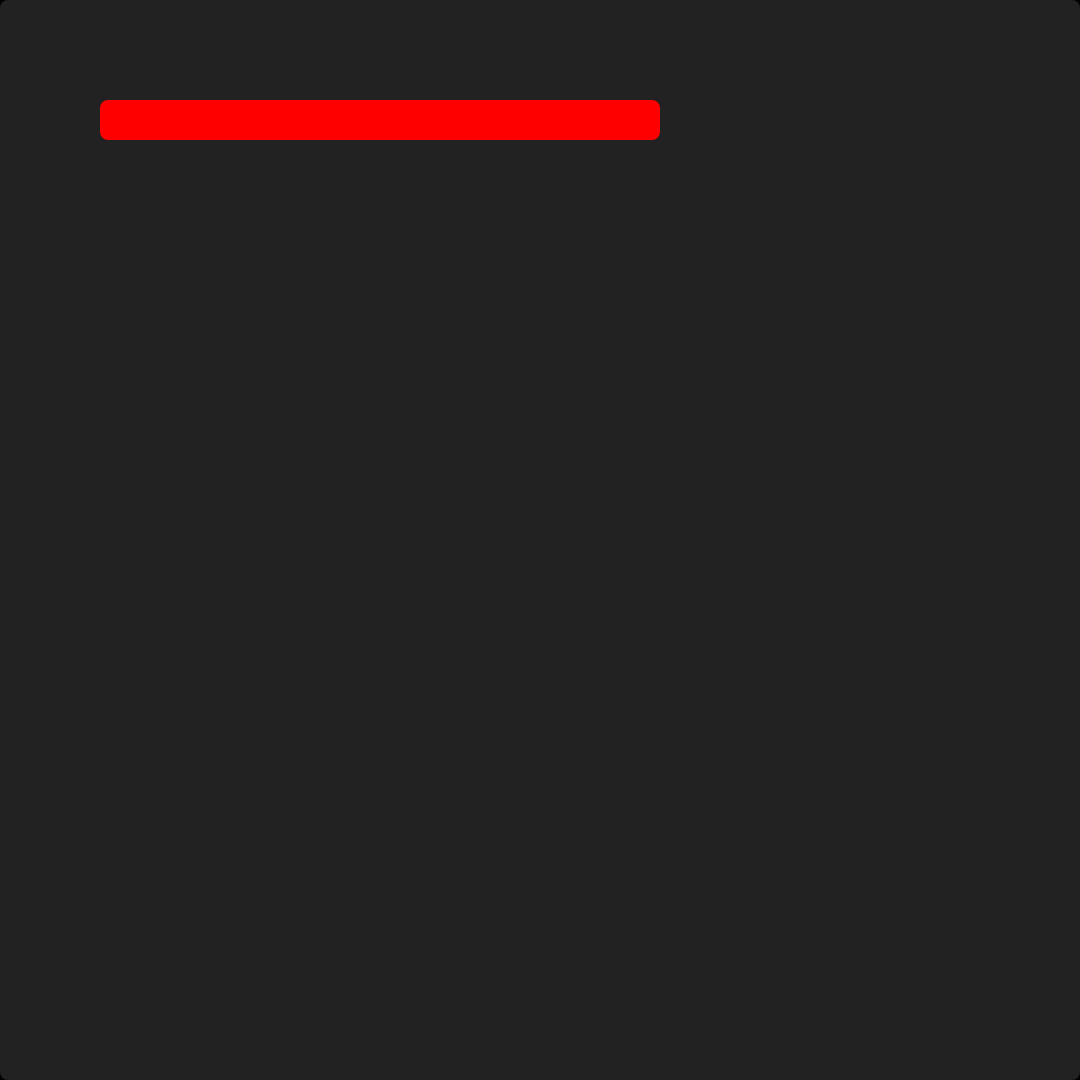
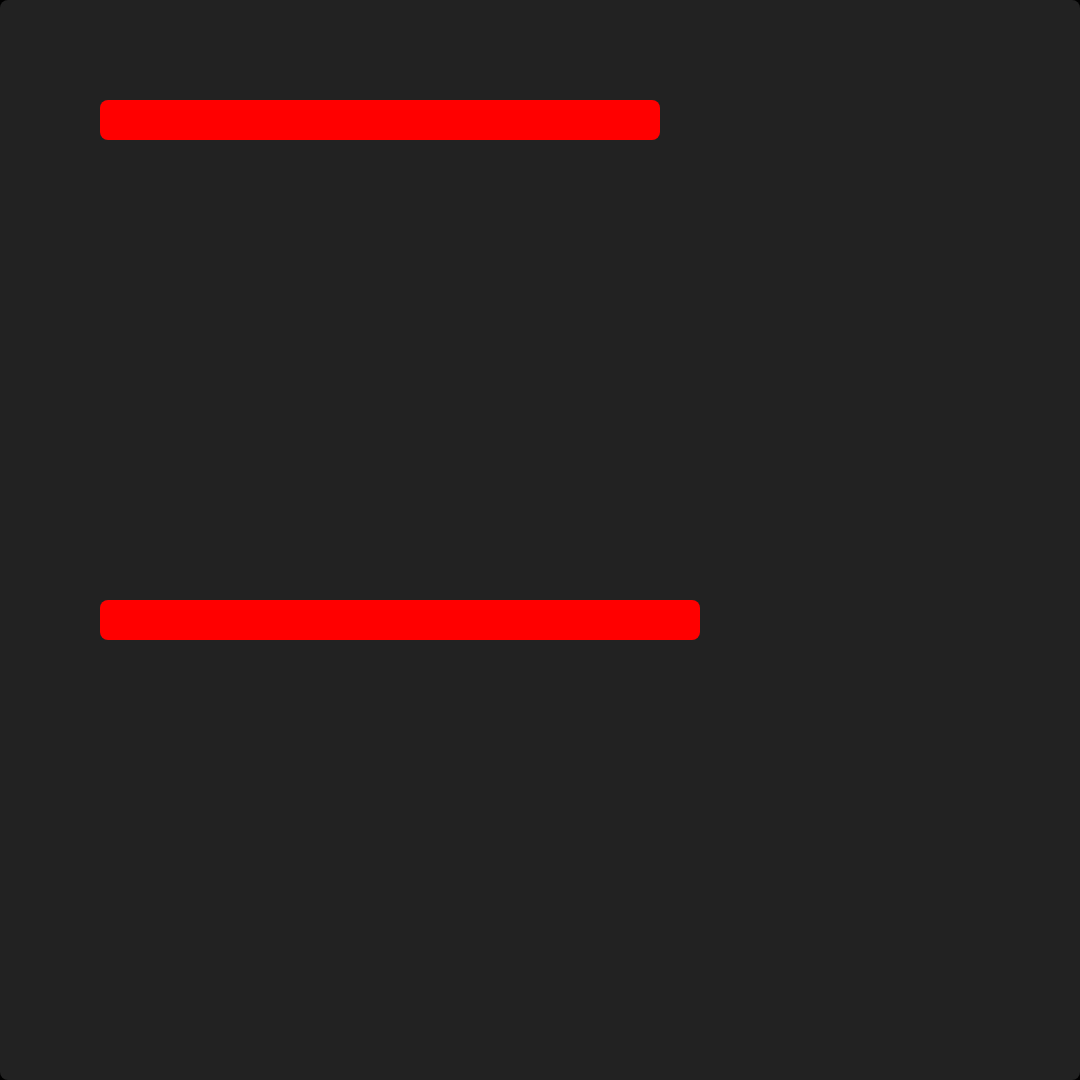
fix(video): resize immediateRender 按位置判定——链式分段 from 值泄漏（v0.32.1）
v0.32.0 的 resize builder 保留 GSAP 默认 immediateRender:true，fromTo 在
build 时写 from 尺寸——链式分段（进度条 15 段链）下最后一段的 from 值获胜，
第 0 帧泄漏出近满宽条。发现者：第一个真实链式消费者（versus IR 重写）。

修法（两语义各有明主）：
- at==0 → true：playhead 恰停在 tween 起点不"进入"tween，F0 必须在 build
  期应用 from 态（否则静态宽全幅泄漏，实测钉死）
- at>0  → false：链式分段不得在 build 期预写后续段 from 值

合成测试扩展：F0 空断言（防泄漏回归）+ 3 段链 200→400→600 阶梯断言。
存量回归 TestFadeHighlight/TestElementTimeWindow 绿。

Changed region(s): [[0.0917, 0.55, 0.6722, 0.6111]]

diff --git a/example/internal/video/app/timeline-builder.js b/example/internal/video/app/timeline-builder.js
@@ -383,18 +383,26 @@
     // resize (v1 increment, versus pilot): width/height tween anchored
     // TOP-LEFT (progress-bar semantics — width grows rightward, height grows
     // downward; From/To Points carry (w,h) px pairs, unlike move's absolute
-    // position Points). immediateRender stays at the DEFAULT (true, same as
-    // move): fromTo writes the from-size at build time, which is harmless
-    // for an element inside its hidden pre-window phase (invisible anyway)
-    // and CORRECT for an always-mounted element — t=0 must sit at the from
-    // state (a progress bar starts empty). fadeIn/fadeOut disable
-    // immediateRender for opacity-specific reasons (build-time autoAlpha
-    // leaks, see above); size has no such leak.
+    // position Points).
+    //
+    // immediateRender: (at <= 0) — BOTH cases have a defined owner:
+    //   at == 0: TRUE. A tween starting at the very top must apply its from
+    //     size at build — with false, a playhead parked exactly at t=0 does
+    //     not "enter" the tween and the element's static w/h shows at F0
+    //     (measured: full-width bar at frame 0, the extended synthetic
+    //     test's F0 verdict).
+    //   at > 0: FALSE. resize is designed for CHAINED segments (one
+    //     element, N sequential resizes stepping a fill up — the
+    //     progress-bar choreography that motivated the type). With true,
+    //     EVERY fromTo writes its from-size at build and the LAST segment's
+    //     from wins, leaking a later state into early frames (v0.32.1 fix,
+    //     caught while authoring the first real chained consumer).
     resize: function (tl, node, an, at) {
       if (!an.from || !an.to) return; // write-time gate rejects this; skip = read-time tolerance
       tl.fromTo(node, { width: an.from.x, height: an.from.y },
         { width: an.to.x, height: an.to.y,
-          duration: an.durationFrames / fps, ease: an.easing || 'power2.out' }, at);
+          duration: an.durationFrames / fps, ease: an.easing || 'power2.out',
+          immediateRender: !(at > 0) }, at);
     }
   };
 

diff --git a/example/internal/video/testdata/atframe_resize_render_test.go b/example/internal/video/testdata/atframe_resize_render_test.go
@@ -115,6 +115,22 @@ func TestAtFrameResizeRender(t *testing.T) {
 					From: &videoapp.Point{X: 100, Y: 100}, To: &videoapp.Point{X: 100, Y: 500},
 					DurationFrames: 15, Easing: "linear", AtFrame: afIntPtr(15)},
 			}},
+		// v0.32.1 chained-resize element (the progress-bar choreography the
+		// type exists for): 3 sequential segments stepping the fill
+		// 0→200→400→600. Static w=0 (immediateRender:false keeps it until the
+		// first segment starts — the bug this pins: with the default true the
+		// LAST segment's from-size won the build-time application and F0
+		// showed a ~400-wide bar).
+		{ID: "el_chain", Type: videoapp.ElementShape, Color: "#ff0000",
+			X: 100, Y: 600, W: 0, H: 40, Z: 1,
+			Animations: []videoapp.ElementAnimation{
+				{ID: "an_c1", Type: "resize", From: &videoapp.Point{X: 0, Y: 40},
+					To: &videoapp.Point{X: 200, Y: 40}, DurationFrames: 2, Easing: "linear", AtFrame: afIntPtr(0)},
+				{ID: "an_c2", Type: "resize", From: &videoapp.Point{X: 200, Y: 40},
+					To: &videoapp.Point{X: 400, Y: 40}, DurationFrames: 2, Easing: "linear", AtFrame: afIntPtr(5)},
+				{ID: "an_c3", Type: "resize", From: &videoapp.Point{X: 400, Y: 40},
+					To: &videoapp.Point{X: 600, Y: 40}, DurationFrames: 2, Easing: "linear", AtFrame: afIntPtr(10)},
+			}},
 	}
 	require.NoError(t, videoapp.Validate(ir), "atFrame+resize IR must pass the write gate")
 	frames := videoapp.DurationFrames(ir, afFPS) // ceil(1.0*30) = 30
@@ -126,7 +142,7 @@ func TestAtFrameResizeRender(t *testing.T) {
 	html, err := proj.HTML(ctx, ir, "")
 	require.NoError(t, err)
 
-	// -- 3. render all 30 frames, keep F0/F7/F14/F22/F29 --
+	// -- 3. render all 30 frames, keep F0/F4/F7/F9/F14/F22/F29 --
 	spec := capx.FrameSpec{Width: afW, Height: afH, FPS: afFPS, DurationFrames: frames}
 	require.NoError(t, spec.Validate())
 
@@ -138,7 +154,7 @@ func TestAtFrameResizeRender(t *testing.T) {
 	rend, err := rt.Renderer()
 	require.NoError(t, err)
 
-	kept := map[int]bool{0: true, 7: true, 14: true, 22: true, 29: true}
+	kept := map[int]bool{0: true, 4: true, 7: true, 9: true, 14: true, 22: true, 29: true}
 	samples := map[int][]byte{}
 	t0 := time.Now()
 	renderErr := rend.RenderFrames(ctx,
@@ -150,7 +166,7 @@ func TestAtFrameResizeRender(t *testing.T) {
 			return nil
 		})
 	require.NoError(t, renderErr, "render failed")
-	require.Len(t, samples, 5, "kept frames 0/7/14/22/29")
+	require.Len(t, samples, 7, "kept frames 0/4/7/9/14/22/29")
 	t.Logf("ATFRAME/RESIZE: %d frames rendered in %.1fs", frames, time.Since(t0).Seconds())
 
 	// -- 4. pixel verdicts --
@@ -182,6 +198,22 @@ func TestAtFrameResizeRender(t *testing.T) {
 	require.Greater(t, lower(f29), 15000, "F29: bar moved DOWN (got %d red px in lower band)", lower(f29))
 	require.Equal(t, 0, upper(f29), "F29: upper band empty (reversal vs F14)")
 	require.NotEqual(t, samples[14], samples[29], "F14 != F29 bytes")
+
+	// chained resize (y∈[595,660] band, untouched by el_bar's move path):
+	// F0 ≈ empty (segment 1 barely started), F4 = 200 wide (segment 1 done),
+	// F7/F9 = 400 (segment 2 done @F7), F14/F29 = 600. The F0 assertion is
+	// the v0.32.1 regression pin: with immediateRender defaulting true, the
+	// LAST segment's from-size (400) leaked to build time and F0 showed a
+	// wide bar.
+	chain := func(img image.Image) int { return afCountRedBand(img, 595, 660) }
+	require.Less(t, chain(f0), 1500, "F0 chain: no build-time from-leak (got %d red px)", chain(f0))
+	c4, c7, c9, c14c, c29c := chain(afDecodePNG(t, samples[4])), chain(afDecodePNG(t, samples[7])),
+		chain(afDecodePNG(t, samples[9])), chain(f14), chain(f29)
+	require.InDelta(t, 200*40, c4, 3000, "F4 chain: segment 1 done → ≈200 wide (got %d)", c4)
+	require.InDelta(t, 400*40, c7, 3000, "F7 chain: segment 2 done → ≈400 wide (got %d)", c7)
+	require.InDelta(t, 400*40, c9, 3000, "F9 chain: segment 3 starts @F10, still 400 (got %d)", c9)
+	require.InDelta(t, 600*40, c14c, 3000, "F14 chain: all segments done → 600 wide (got %d)", c14c)
+	require.Equal(t, c14c, c29c, "F29 chain: unchanged after F14")
 
 	// -- 5. artifacts --
 	_, thisFile, _, _ := runtime.Caller(0)

diff --git a/CHANGELOG.md b/CHANGELOG.md
@@ -9,6 +9,20 @@ vX.Y.Z tags but NOT locked together — a tag whose diff touches no `packages/` 
 npm entirely (the npm packages stay at the last release that changed them; each version's
 entry below says whether it is Go-only). Consumers pin each side independently.
 
+## [0.32.1] — 2026-11-17
+
+Go-only hotfix (no `packages/` code touched). Found within the hour by the
+first real chained consumer (the versus IR rewrite): the v0.32.0 `resize`
+builder kept GSAP's default `immediateRender: true`, which writes every
+fromTo's from-size at BUILD time — for chained segments the LAST segment's
+from value won and leaked into early frames (a progress bar showed 14/15
+full at frame 0). The builder now sets `immediateRender` per position:
+true when the tween starts at t=0 (a playhead parked exactly at the tween's
+start does not "enter" it, so the from state must be applied at build —
+measured as a full-width bar at F0 otherwise), false for any later start.
+The extended synthetic render test pins both semantics (F0 empty; chained
+segments step 200→400→600 across their frames).
+
 ## [0.32.0] — 2026-11-17
 
 Go-only release (no `packages/` code touched — npm sides stay put). Theme:
